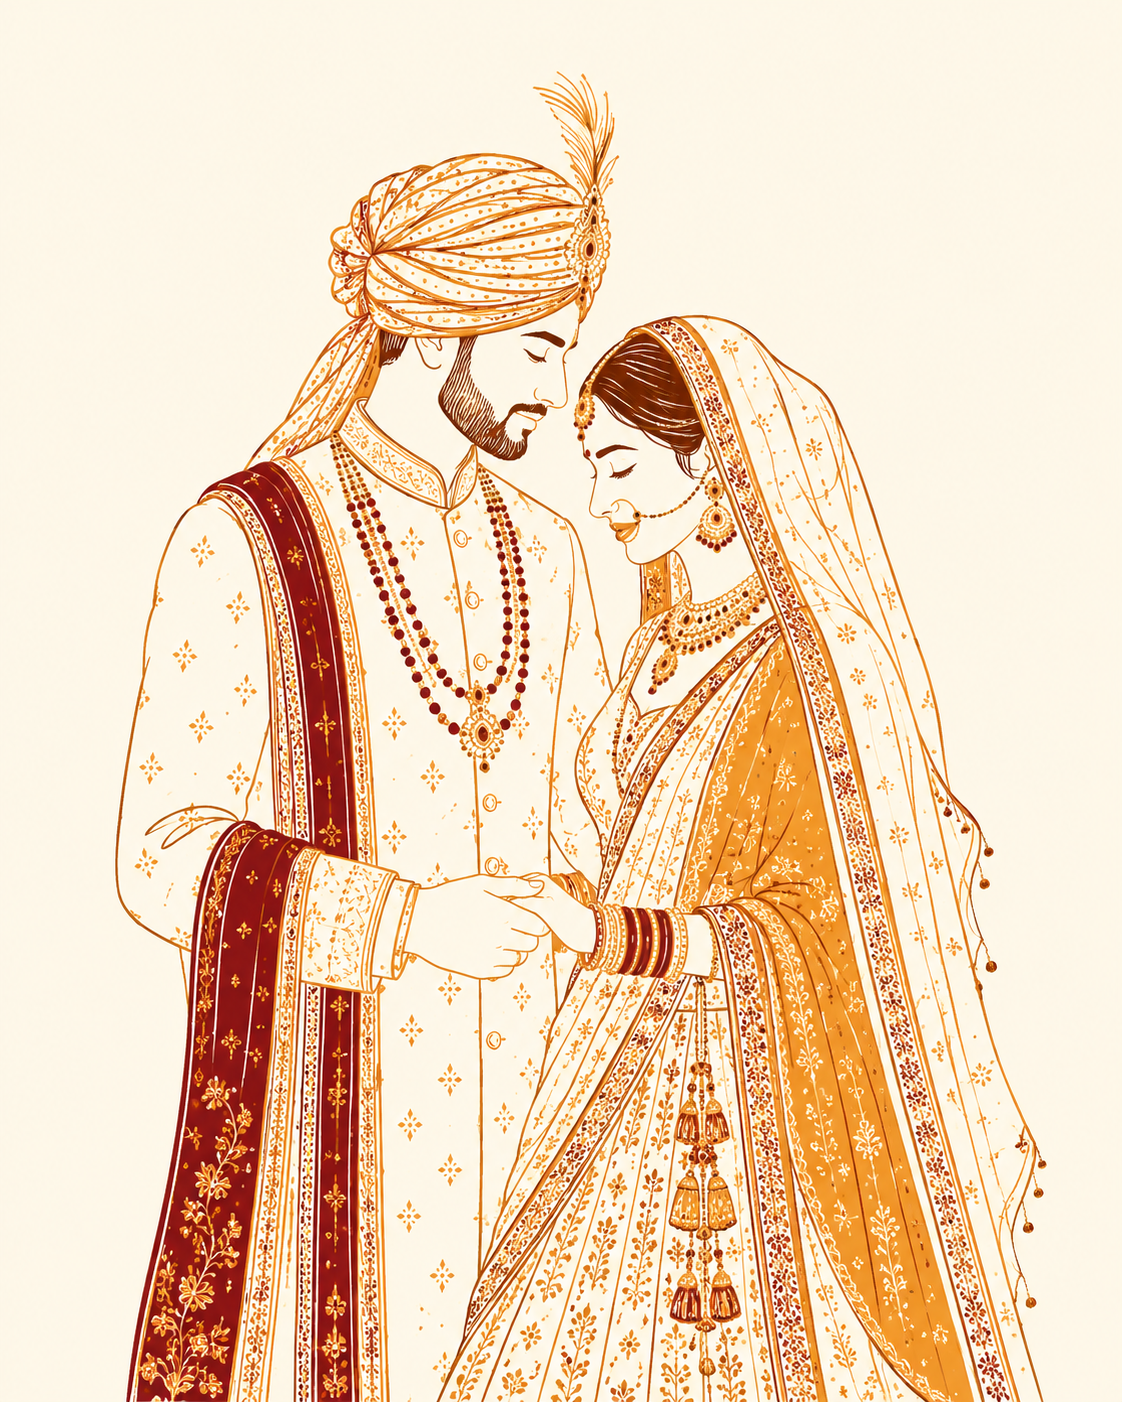
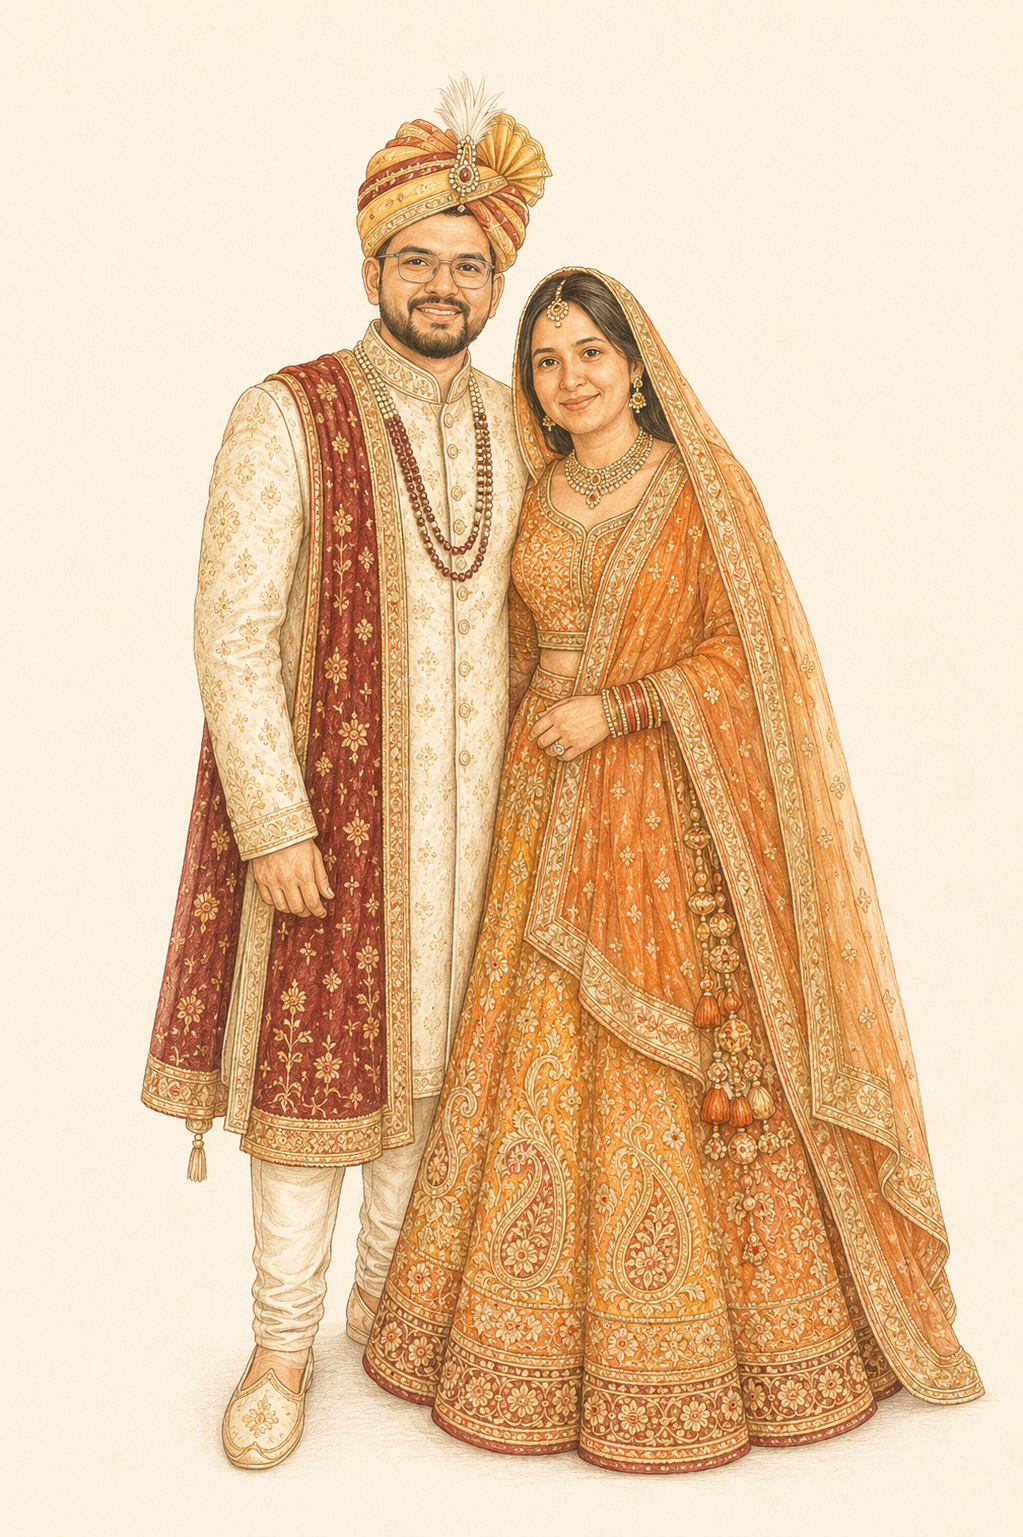
Update invitation: Rohit & Shefali content, schedule, images, animations
- Real Karnawat/Mehta family content, two-day schedule with revised times
- Themed couple illustration in gold frame with fade + zoom-in
- Scroll-reveal animations and date-reveal confetti
- Updated contacts, #TheRoshSaga hashtag, Vercel config

diff --git a/index.html b/index.html
@@ -23,7 +23,7 @@
     <div class="hero__bg" aria-hidden="true"></div>
     <div class="hero__inner">
       <p class="hero__ganesh">॥ श्री महावीराय नमः ॥</p>
-      <p class="hero__pretext">In togetherness of the Karnawat Family</p>
+      <p class="hero__pretext">In togetherness with the Karnawat Family</p>
 
       <div class="hero__names">
         <span class="hero__name">Rohit</span>
@@ -32,6 +32,7 @@
       </div>
 
       <p class="hero__tagline">are getting married</p>
+      <p class="hero__hashtag">#TheRoshSaga</p>
 
       <!-- Hidden date reveal -->
       <div class="reveal" id="reveal">
@@ -79,9 +80,9 @@
     <div class="invite__couple">
       <div class="invite__side">
         <h3>Rohit Karnawat</h3>
-        <p>S/o Shri Rajesh Kumar ji Karnawat<br />&amp; Smt. Hemlata ji Karnawat</p>
+        <p>S/o Shri Rajesh Kumar Karnawat<br />&amp; Smt. Hemlata Karnawat</p>
         <p class="invite__gp">
-          Grand S/o Lt. Shri Jatan Singh ji Karnawat &amp; Smt. Tej Kanwar ji Karnawat<br />
+          Grand S/o Lt. Shri Jatan Singh ji Karnawat &amp; Lt. Smt. Tej Kanwar ji Karnawat<br />
           Smt. Madhubala ji Karnawat
         </p>
         <p class="invite__city">Jaipur</p>
@@ -91,7 +92,10 @@
 
       <div class="invite__side">
         <h3>Shefali Mehta</h3>
-        <p>D/o Shri Narendra ji Mehta<br />&amp; Smt. Shanu ji Mehta</p>
+        <p>D/o Shri Narendra ji Mehta<br />&amp; Smt. Shannu ji Mehta</p>
+        <p class="invite__gp">
+          Grand D/o Lt. Shri Vijay Singh ji Mehta &amp; Lt. Smt. Vimla Devi ji Mehta
+        </p>
         <p class="invite__city">Makrana</p>
       </div>
     </div>
@@ -119,15 +123,15 @@
         <div class="timeline__body"><h3>Chak Kalash</h3></div>
       </li>
       <li class="timeline__item">
-        <span class="timeline__time">11:00 AM</span>
+        <span class="timeline__time">11:00 AM <em>Onwards</em></span>
         <div class="timeline__body"><h3>Haldi Carnival</h3><p>Followed by Lunch</p></div>
       </li>
       <li class="timeline__item">
-        <span class="timeline__time">5:30 PM</span>
-        <div class="timeline__body"><h3>Engagement</h3></div>
+        <span class="timeline__time">6:30 PM <em>Onwards</em></span>
+        <div class="timeline__body"><h3>Engagement Ceremony</h3></div>
       </li>
       <li class="timeline__item">
-        <span class="timeline__time">7:00 PM</span>
+        <span class="timeline__time">7:30 PM <em>Onwards</em></span>
         <div class="timeline__body"><h3>Sangeet Night</h3><p>Followed by Dinner</p></div>
       </li>
     </ul>
@@ -141,15 +145,15 @@
       </li>
       <li class="timeline__item">
         <span class="timeline__time">5:15 PM</span>
-        <div class="timeline__body"><h3>Nikasi</h3></div>
+        <div class="timeline__body"><h3>Nikasi (Baraat)</h3></div>
       </li>
       <li class="timeline__item">
-        <span class="timeline__time">6:15 PM</span>
+        <span class="timeline__time">6:00 PM <em>Onwards</em></span>
         <div class="timeline__body"><h3>Varmala</h3></div>
       </li>
       <li class="timeline__item">
-        <span class="timeline__time">7:15 PM</span>
-        <div class="timeline__body"><h3>Musical Phera</h3><p>Followed by Dinner</p></div>
+        <span class="timeline__time">7:00 PM <em>Onwards</em></span>
+        <div class="timeline__body"><h3>Phera Ceremony</h3><p>Followed by Dinner</p></div>
       </li>
     </ul>
   </section>
@@ -184,9 +188,11 @@
   <section class="section welcome" id="welcome">
     <img src="assets/images/divider.png" alt="" class="divider" aria-hidden="true" />
     <h2 class="section__title">Welcoming Family</h2>
-    <p class="welcome__names">
-      Sh. Mahendra Singh ji &nbsp;&middot;&nbsp; Manoj ji &nbsp;&middot;&nbsp; Pramod ji Karnawat
-    </p>
+    <div class="welcome__names">
+      <span>Sh. Mahendra Singh ji</span>
+      <span>Manoj ji</span>
+      <span>Pramod ji Karnawat</span>
+    </div>
     <p class="welcome__all">&amp; Entire Karnawat Family</p>
   </section>
 
@@ -227,12 +233,12 @@
     <div class="contact__grid">
       <div class="contact__card">
         <h3>Rajesh Kumar Karnawat</h3>
-        <a href="tel:+919414042146">+91 94140 42146</a>
+        <a href="tel:+919414042346">+91 94140 42346</a>
         <span class="contact__note">Call &amp; WhatsApp</span>
       </div>
       <div class="contact__card">
         <h3>Hemlata Karnawat</h3>
-        <a href="tel:+919414916989">+91 94149 16989</a>
+        <a href="tel:+919414816989">+91 94148 16989</a>
         <span class="contact__note">Call &amp; WhatsApp</span>
       </div>
     </div>
@@ -243,6 +249,7 @@
     <img src="assets/images/divider.png" alt="" class="divider" aria-hidden="true" />
     <p class="footer__quote">"Two souls, one journey."</p>
     <div class="footer__names">Rohit &amp; Shefali</div>
+    <p class="footer__hashtag">#TheRoshSaga</p>
     <p class="footer__date">22 . 07 . 2026 &nbsp;|&nbsp; Jaipur</p>
   </footer>
 

diff --git a/js/main.js b/js/main.js
@@ -8,9 +8,10 @@
 
   /* ---- Config ---- */
   // Wedding day/time (local). Month is 0-indexed: 6 = July.
-  var WEDDING_DATE = new Date(2026, 6, 22, 7, 15, 0);
+  // 22 July 2026, 7:00 PM (Phera Ceremony).
+  var WEDDING_DATE = new Date(2026, 6, 22, 19, 0, 0);
   // Contact number for RSVP (international format, no "+" or spaces).
-  var WHATSAPP_NUMBER = "919414042146";
+  var WHATSAPP_NUMBER = "919414042346";
 
   /* ============================================================
      0. Hide decorative images that fail to load
@@ -33,7 +34,86 @@
       revealContent.hidden = false;
       revealBtn.setAttribute("aria-expanded", "true");
       revealBtn.style.display = "none";
+      launchConfetti();
     });
+  }
+
+  /* ============================================================
+     Poppers / crackers confetti effect (canvas, no library)
+     ============================================================ */
+  function launchConfetti() {
+    var reduce =
+      window.matchMedia &&
+      window.matchMedia("(prefers-reduced-motion: reduce)").matches;
+    if (reduce) return;
+
+    var canvas = document.createElement("canvas");
+    canvas.style.cssText =
+      "position:fixed;inset:0;width:100%;height:100%;pointer-events:none;z-index:9999;";
+    document.body.appendChild(canvas);
+
+    var ctx = canvas.getContext("2d");
+    var W = (canvas.width = window.innerWidth);
+    var H = (canvas.height = window.innerHeight);
+    var colors = ["#f5a623", "#e8821e", "#c9a24b", "#6b1414", "#b03052", "#fff8ec"];
+
+    // Two "poppers" firing inward from the bottom corners.
+    var pieces = [];
+    function spawn(originX, angleDeg) {
+      for (var i = 0; i < 70; i++) {
+        var angle = (angleDeg + (Math.random() * 50 - 25)) * (Math.PI / 180);
+        var speed = 8 + Math.random() * 9;
+        pieces.push({
+          x: originX,
+          y: H,
+          vx: Math.cos(angle) * speed,
+          vy: -Math.sin(angle) * speed,
+          size: 5 + Math.random() * 7,
+          color: colors[(Math.random() * colors.length) | 0],
+          rot: Math.random() * Math.PI,
+          vr: Math.random() * 0.3 - 0.15,
+          life: 1
+        });
+      }
+    }
+    spawn(W * 0.08, 70);
+    spawn(W * 0.92, 110);
+
+    var gravity = 0.22;
+    var frames = 0;
+
+    function frame() {
+      ctx.clearRect(0, 0, W, H);
+      frames++;
+      var alive = false;
+
+      for (var i = 0; i < pieces.length; i++) {
+        var p = pieces[i];
+        p.vy += gravity;
+        p.x += p.vx;
+        p.y += p.vy;
+        p.rot += p.vr;
+        if (frames > 60) p.life -= 0.018;
+
+        if (p.life > 0 && p.y < H + 40) {
+          alive = true;
+          ctx.save();
+          ctx.globalAlpha = Math.max(0, p.life);
+          ctx.translate(p.x, p.y);
+          ctx.rotate(p.rot);
+          ctx.fillStyle = p.color;
+          ctx.fillRect(-p.size / 2, -p.size / 2, p.size, p.size * 0.6);
+          ctx.restore();
+        }
+      }
+
+      if (alive && frames < 220) {
+        window.requestAnimationFrame(frame);
+      } else {
+        canvas.remove();
+      }
+    }
+    window.requestAnimationFrame(frame);
   }
 
   /* ============================================================
@@ -147,6 +227,10 @@
     if (sides[1]) sides[1].classList.add("anim", "anim--right");
     var heart = document.querySelector(".invite__heart");
     if (heart) heart.classList.add("anim", "anim--zoom");
+
+    // Couple illustration: fade + gentle zoom-in on scroll.
+    var art = document.querySelector(".invite__art");
+    if (art) art.classList.add("anim--rise-zoom");
 
     // Grouped items animate with a stagger (delay grows per index).
     function stagger(selector, step) {

diff --git a/css/styles.css b/css/styles.css
@@ -86,6 +86,8 @@ a { color: inherit; }
 .anim.anim--left  { transform: translateX(-46px); }
 .anim.anim--right { transform: translateX(46px); }
 .anim.anim--zoom  { transform: scale(0.88); }
+.anim.anim--rise-zoom { transform: translateY(30px) scale(0.92); }
+.invite__art.anim { transition-duration: 1.1s; }
 .anim.is-in {
   opacity: 1;
   transform: none;
@@ -186,8 +188,16 @@ a { color: inherit; }
   letter-spacing: 0.3em;
   text-transform: uppercase;
   font-size: 0.95rem;
-  margin: 6px 0 38px;
+  margin: 6px 0 14px;
   opacity: 0.92;
+}
+.hero__hashtag {
+  font-family: var(--script);
+  font-size: 2.4rem;
+  line-height: 1;
+  color: var(--marigold);
+  margin: 0 0 30px;
+  text-shadow: 0 2px 12px rgba(0,0,0,0.35);
 }
 
 /* Date reveal */
@@ -301,10 +311,14 @@ a { color: inherit; }
    INVITE / FAMILY
    ============================================================ */
 .invite__art {
-  width: 320px;
-  max-width: 78%;
-  margin: 0 auto 24px;
+  width: 330px;
+  max-width: 80%;
+  margin: 0 auto 26px;
+  padding: 10px;
+  background: linear-gradient(160deg, #fff, var(--cream-deep));
+  border: 1px solid var(--gold);
   border-radius: var(--radius);
+  box-shadow: var(--shadow), 0 0 0 6px rgba(201, 162, 75, 0.16);
 }
 .invite__lead {
   font-style: italic;
@@ -348,8 +362,11 @@ a { color: inherit; }
   font-family: var(--display);
   font-size: 1.5rem;
   color: var(--maroon);
-  margin: 0 0 8px;
-  line-height: 1.5;
+  margin: 0 0 14px;
+}
+.welcome__names span {
+  display: block;
+  margin: 6px 0;
 }
 .welcome__all { font-style: italic; color: var(--rose); margin: 0; font-size: 1.15rem; }
 
@@ -415,6 +432,15 @@ a { color: inherit; }
   color: var(--rose);
   font-size: 1.05rem;
   padding-top: 2px;
+}
+.timeline__time em {
+  display: block;
+  font-style: normal;
+  font-family: var(--serif);
+  font-size: 0.78rem;
+  letter-spacing: 0.12em;
+  text-transform: uppercase;
+  opacity: 0.7;
 }
 .timeline__body { padding-left: 24px; }
 .timeline__body h3 {
@@ -510,6 +536,13 @@ a { color: inherit; }
 .footer .divider { filter: brightness(1.4) sepia(0.3); }
 .footer__quote { font-style: italic; opacity: 0.9; margin: 0 0 10px; font-size: 1.2rem; }
 .footer__names { font-family: var(--script); font-size: 3.5rem; color: var(--marigold); line-height: 1; }
+.footer__hashtag {
+  font-family: var(--display);
+  letter-spacing: 0.18em;
+  color: var(--cream);
+  margin: 14px 0 0;
+  font-size: 1.1rem;
+}
 .footer__contact { margin: 18px 0 0; opacity: 0.9; }
 .footer__contact a { color: var(--marigold); text-decoration: none; }
 .footer__date { font-family: var(--display); letter-spacing: 0.2em; margin: 18px 0 0; opacity: 0.85; }
